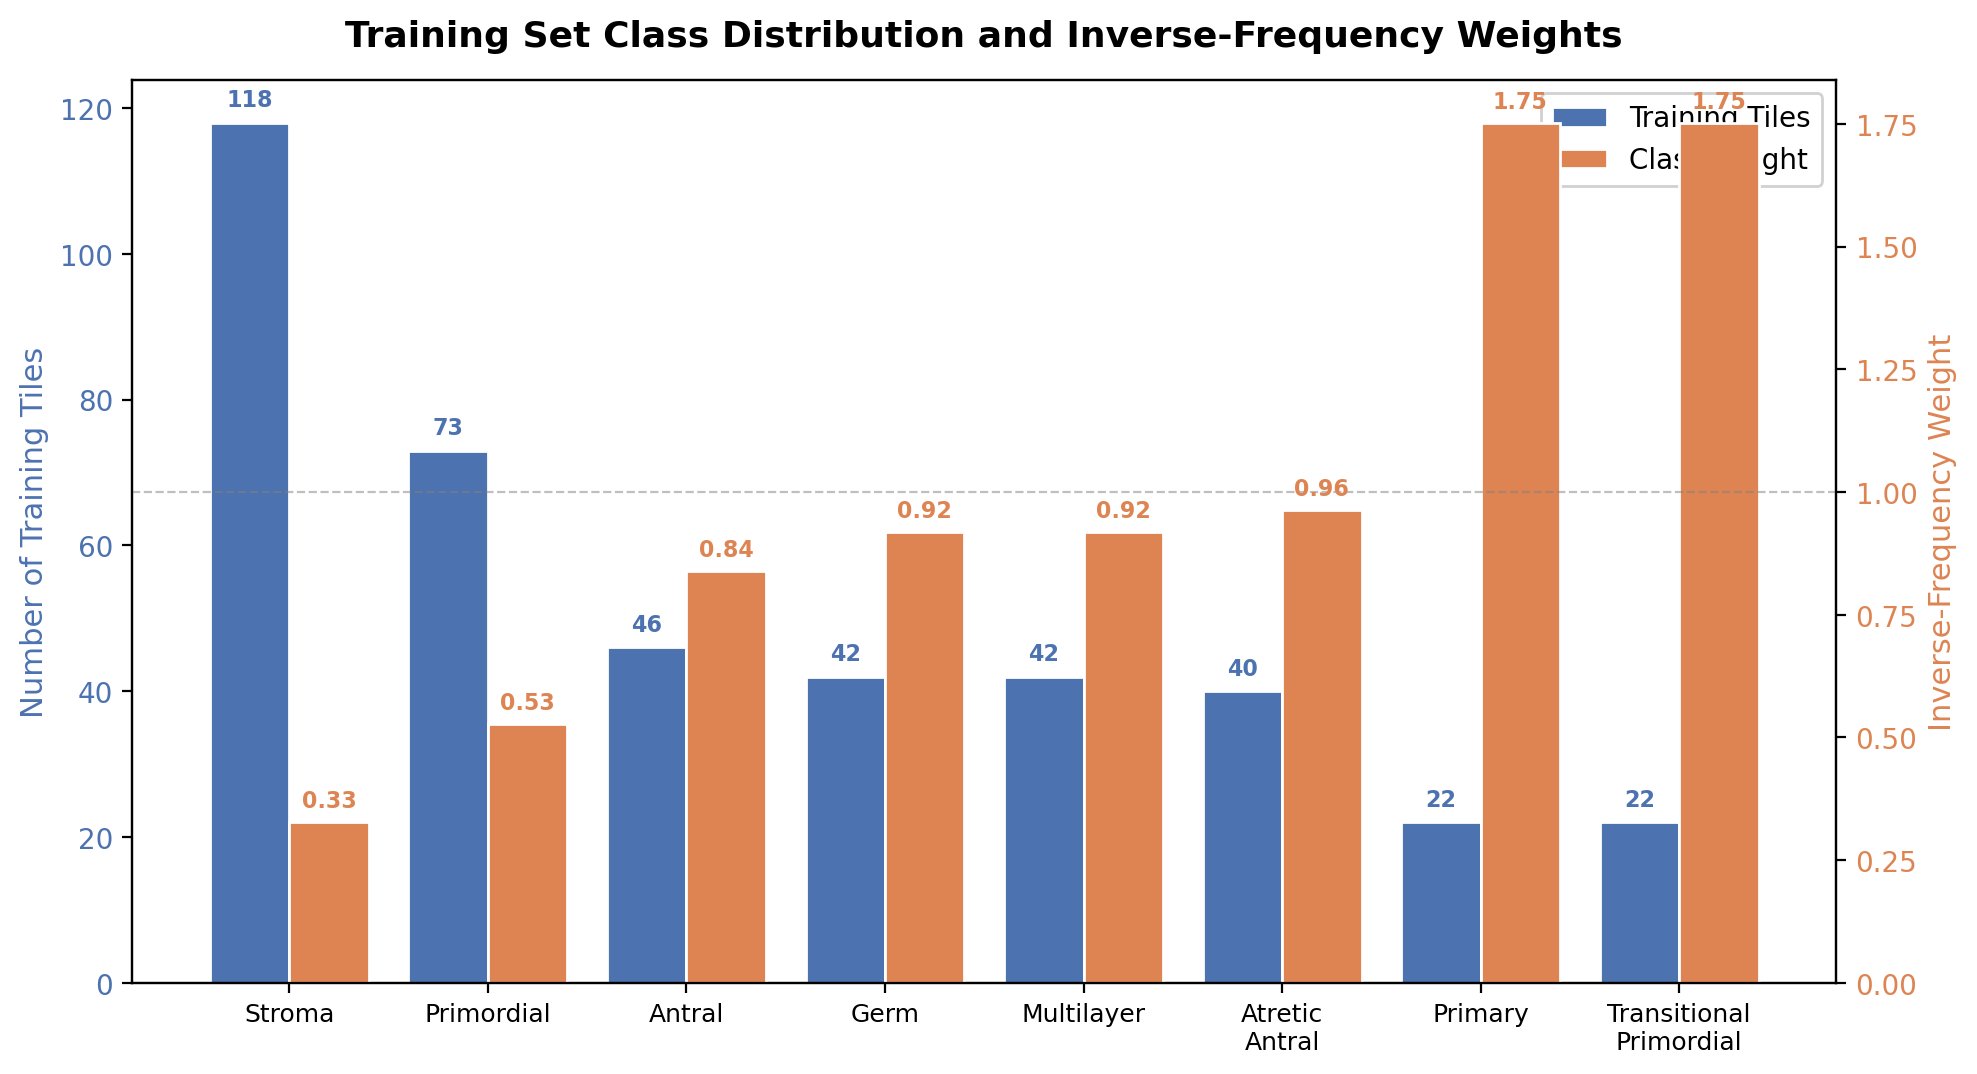
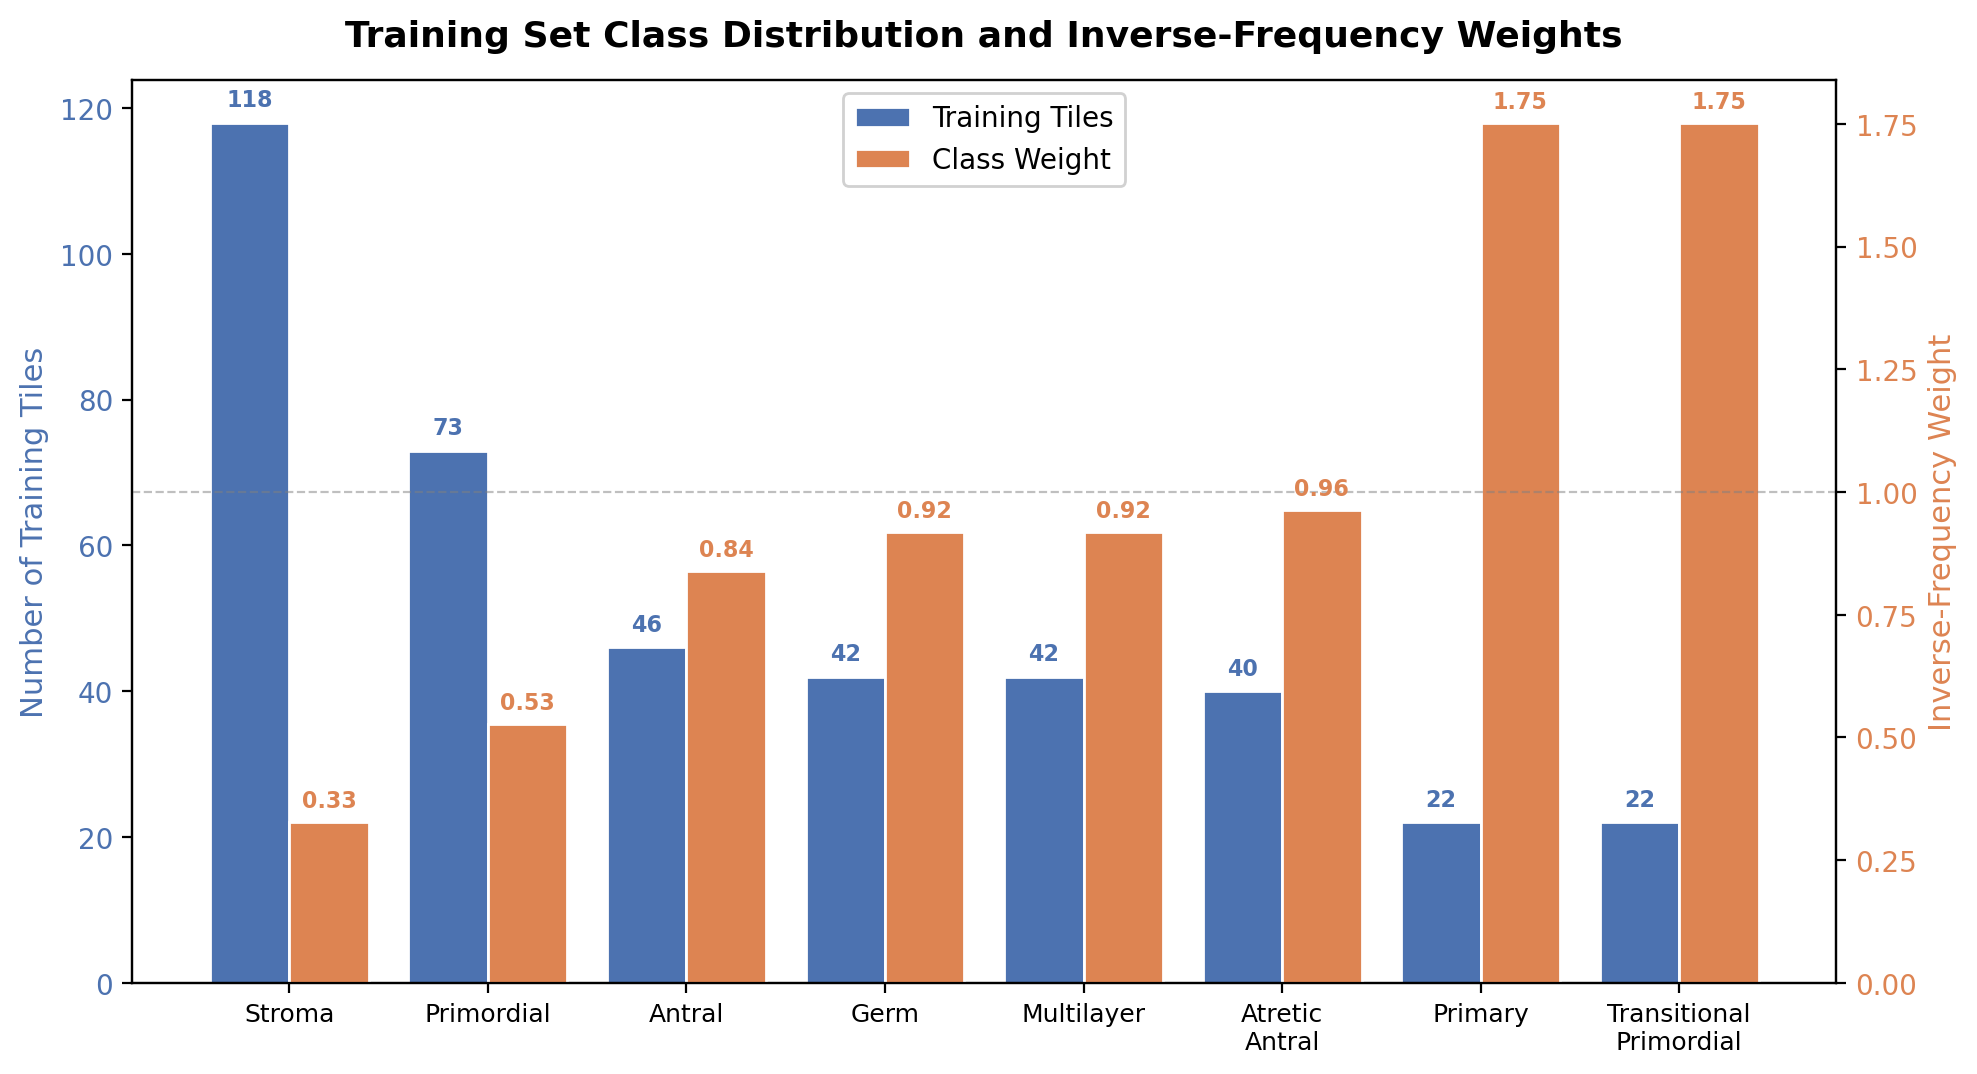
Results from ML

Changed region(s): [[0.432, 0.0922, 0.5862, 0.1844], [0.7714, 0.0922, 0.9256, 0.1844]]

diff --git a/EDA/05_make_presentation_figs.py b/EDA/05_make_presentation_figs.py
@@ -20,10 +20,10 @@ Outputs (all written to outputs/figures/results/):
   - fig6_slide_size_vs_tiles.png
 
 Run from repo root:
-  python explore/05_make_presentation_figs.py
+  python EDA/05_make_presentation_figs.py
 
 Override paths:
-  python explore/05_make_presentation_figs.py \
+  python EDA/05_make_presentation_figs.py \
     --log outputs/logs/pipeline_run_20260328_202129.log \
     --test-predictions outputs/test_predictions.csv \
     --wsi-summary outputs/all_slides_summary.csv \
@@ -59,7 +59,21 @@ from src.utils.paths import find_repo_root
 # ======================================================================
 
 def find_latest_log(logs_dir: Path) -> Optional[Path]:
-    """Find the most recent pipeline_*.log file."""
+    """
+    Find the most recent CNN pipeline log file.
+
+    Prefers cnn_pipeline_*.log (written by tee in run_cnn_pipeline.sh,
+    contains both [pipeline] lines AND raw fastai epoch tables).
+    Falls back to pipeline_*.log (written by make_logger inside
+    cnn_pipeline.py, contains only [pipeline] prefixed lines — no
+    epoch data for training curves).
+    """
+    # First choice: the tee-captured log with full output
+    cnn_logs = sorted(logs_dir.glob("cnn_pipeline_*.log"), key=lambda p: p.stat().st_mtime)
+    if cnn_logs:
+        return cnn_logs[-1]
+
+    # Fallback: the make_logger log (won't have epoch tables)
     logs = sorted(logs_dir.glob("pipeline_*.log"), key=lambda p: p.stat().st_mtime)
     return logs[-1] if logs else None
 
@@ -235,7 +249,7 @@ def fig1_class_distribution(
 
     lines1, labels1 = ax1.get_legend_handles_labels()
     lines2, labels2 = ax2.get_legend_handles_labels()
-    ax1.legend(lines1 + lines2, labels1 + labels2, loc="upper right", framealpha=0.9)
+    ax1.legend(lines1 + lines2, labels1 + labels2, loc="upper center", framealpha=0.9)
 
     fig.tight_layout()
     fig.savefig(out_path, dpi=200, bbox_inches="tight")
@@ -588,7 +602,11 @@ def main() -> int:
             figdir / "fig2_training_curves.png",
         )
     else:
-        print("[WARNING] No training metrics found in log — skipping Figure 2")
+        print("[WARNING] No training metrics (epoch tables) found in log — skipping Figure 2")
+        print(f"  Log used: {log_path}")
+        print("  The epoch data only exists in the tee-captured log (cnn_pipeline_*.log),")
+        print("  not in the make_logger log (pipeline_*.log).")
+        print("  Fix: re-run, or pass --log outputs/logs/cnn_pipeline_<timestamp>.log")
 
     # ---- Figure 3: Test predictions ----
     test_csv = repo / args.test_predictions
